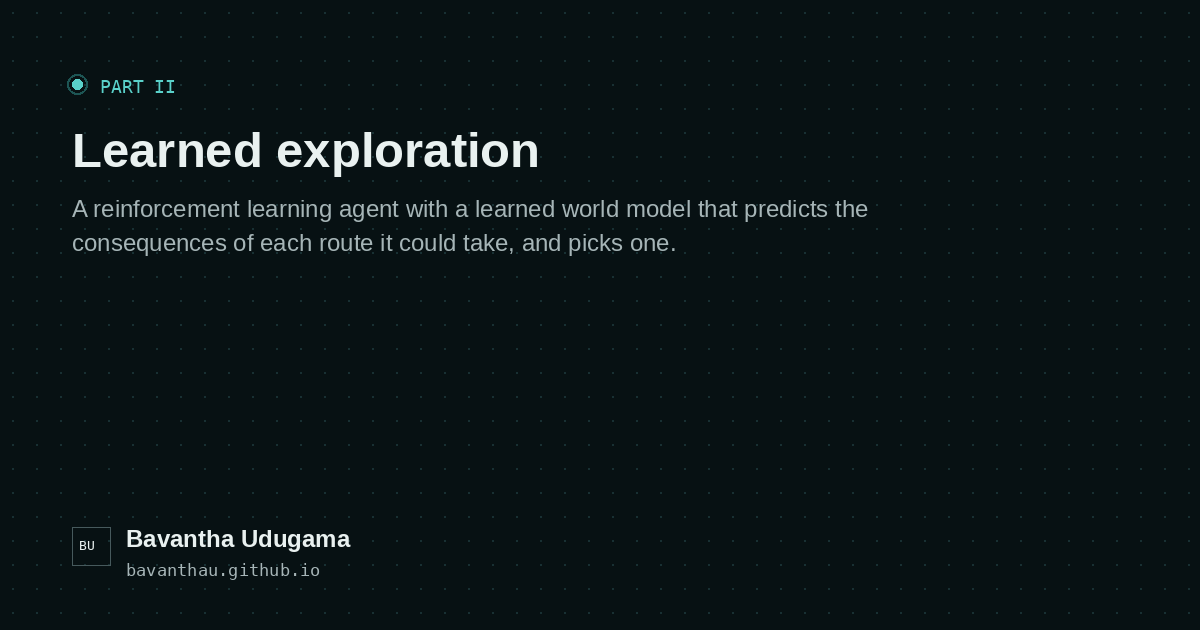
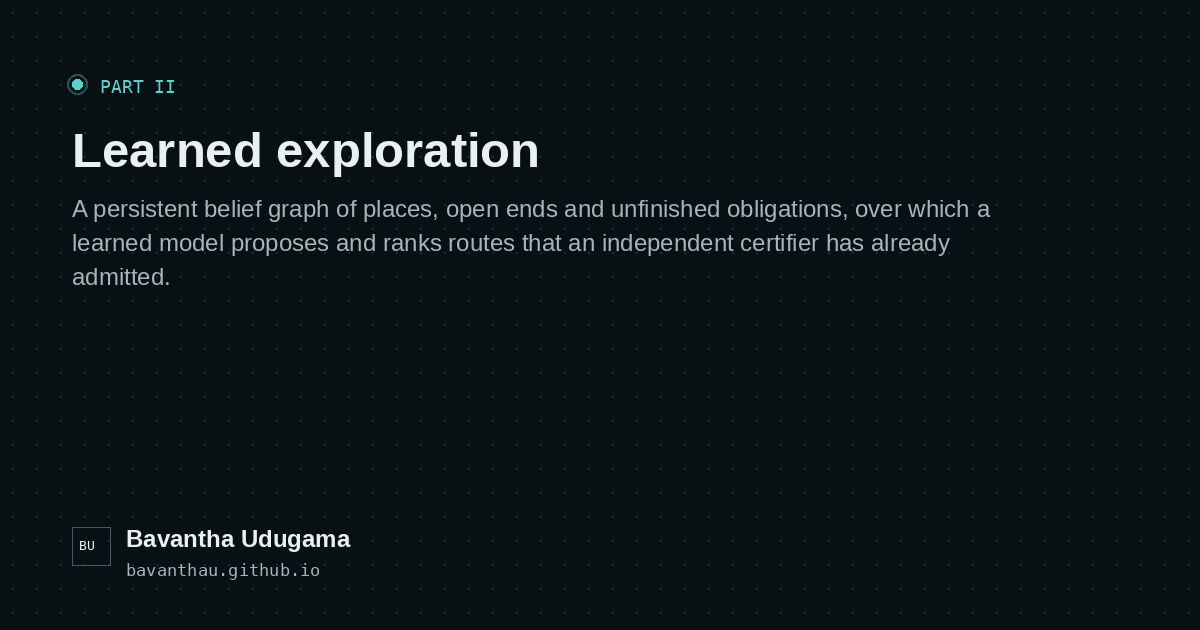
Describe ATLAS V11 on the exploration page
The exploration work is now a persistent causal belief graph rather than a
world model over map snapshots, and the page said the old thing. Places,
open ends and obligations as node types; edges keyed by a certified route
and its certificate hash; an 18-D node and 7-D edge GNN fused with
dual-scale body-aligned occupancy crops; a transformer proposing and
ranking up to eight options through proposal, choice, count and criterion
heads, cloned from a certified classical teacher; options scored by a
distributional effect model under a horizon-3 ICBO MPC against a
pre-registered reward. V9, the depth-only control layer underneath, gets a
block of its own.

The certification contract is unchanged and now stated where it belongs:
route certification and collision authority sit outside the network, which
only re-orders options an independent certifier has admitted.

The clip, the status note and the no-results-yet label stay as they were.

Changed region(s): [[0.0617, 0.3016, 0.8325, 0.4524]]

diff --git a/projects/learned-exploration/index.html b/projects/learned-exploration/index.html
@@ -5,14 +5,14 @@
 <meta name="viewport" content="width=device-width, initial-scale=1">
 <meta name="color-scheme" content="light dark">
 <title>Bavantha Udugama | Learned exploration</title>
-<meta name="description" content="A reinforcement learning agent with a learned world model that predicts the consequences of each route it could take, and picks one.">
+<meta name="description" content="A persistent belief graph of places, open ends and unfinished obligations, over which a learned model proposes and ranks routes that an independent.">
 <meta name="robots" content="index, follow, max-image-preview:large, max-snippet:-1, max-video-preview:-1">
 <link rel="canonical" href="https://bavanthau.github.io/projects/learned-exploration/">
 <meta name="google-site-verification" content="LWcJVt2Oa5A7B_dpxRGxcpkIGy-YoHjrJKUzmU_0QO4">
 <meta property="og:type" content="article">
 <meta property="og:site_name" content="Bavantha Udugama">
 <meta property="og:title" content="Bavantha Udugama | Learned exploration">
-<meta property="og:description" content="A reinforcement learning agent with a learned world model that predicts the consequences of each route it could take, and picks one.">
+<meta property="og:description" content="A persistent belief graph of places, open ends and unfinished obligations, over which a learned model proposes and ranks routes that an independent.">
 <meta property="og:url" content="https://bavanthau.github.io/projects/learned-exploration/">
 <meta property="og:image" content="https://bavanthau.github.io/media/og/proj-learned-exploration.png">
 <meta property="og:image:width" content="1200">
@@ -21,7 +21,7 @@
 <meta name="twitter:card" content="summary_large_image">
 <meta name="twitter:image" content="https://bavanthau.github.io/media/og/proj-learned-exploration.png">
 <meta name="twitter:title" content="Bavantha Udugama | Learned exploration">
-<meta name="twitter:description" content="A reinforcement learning agent with a learned world model that predicts the consequences of each route it could take, and picks one.">
+<meta name="twitter:description" content="A persistent belief graph of places, open ends and unfinished obligations, over which a learned model proposes and ranks routes that an independent.">
 <link rel="stylesheet" href="/assets/site.css?v=f70c5fdb9b">
 <link rel="icon" href="/assets/favicon.svg?v=12e1995266" type="image/svg+xml">
 <link rel="icon" href="/assets/favicon-32.png?v=529caf0bfa" sizes="32x32" type="image/png">
@@ -32,7 +32,7 @@
   "@context": "https://schema.org",
   "@type": "CreativeWork",
   "name": "Learned exploration",
-  "description": "A reinforcement learning agent with a learned world model that predicts the consequences of each route it could take, and picks one.",
+  "description": "A persistent belief graph of places, open ends and unfinished obligations, over which a learned model proposes and ranks routes that an independent certifier has already admitted.",
   "url": "https://bavanthau.github.io/projects/learned-exploration/",
   "creativeWorkStatus": "Work in progress, no results yet",
   "author": {
@@ -121,20 +121,20 @@
 
 <p class="eyebrow"><a href="/projects/">Projects</a> &middot; Part II</p>
 <h1>Learned exploration</h1>
-<p class="standfirst">A reinforcement learning agent with a learned world model that predicts the consequences of each route it could take, and picks one.</p>
-<p class="pub-venue">2025 to present &middot;
+<p class="standfirst">A persistent belief graph of places, open ends and unfinished obligations, over which a learned model proposes and ranks routes that an independent certifier has already admitted.</p>
+<p class="pub-venue">ATLAS V11 &middot; 2025 to present &middot;
   <span class="tag tag-progress">Work in progress, no results yet</span></p>
 
 <div class="note">
   <span class="note-label">Status</span>
-  <p>The formulation, the world model, the objective, and the training setup are written up in the thesis. The experiments are not run yet. The exploration agent also does not consume the Mono-Hydra++ scene graph: it maintains its own topological memory over an occupancy map built from simulated depth and pose. Connecting the two parts is the next step.</p>
+  <p>The formulation, the belief graph, the effect model, the objective and the training setup are written up in the thesis. The experiments are not run yet. The exploration agent also does not consume the Mono-Hydra++ scene graph: it maintains its own belief graph over an occupancy map built from simulated depth and pose. Connecting the two parts is the next step.</p>
 </div>
 <h2>What it does</h2>
-<p>The robot enters an unmapped indoor space with one forward-facing camera and has to cover it under a time budget without collision. Motion is treated as solved: a geometric planner proposes only routes it has verified against the occupancy map the robot has built. The open problem is choice, not motion, so the learned layer decides among certified options and may abstain, but never commands motion itself.</p>
+<p>The robot enters an unmapped indoor space with one forward-facing camera and has to cover it under a time budget without collision. Motion is treated as solved: a geometric planner proposes only routes it has verified against the occupancy map the robot has built. The open problem is choice, not motion, so the learned layer decides among certified options and may abstain, but never commands motion itself. The system is ATLAS V11, built in PyTorch and trained in Isaac Sim.</p>
 <figure class="v-figure "><div class="v-wrap"><video poster="/media/video/scope-explorer-poster.jpg" width="1100" height="892" muted loop playsinline preload="none" data-autoloop aria-label="Simulated indoor exploration run showing the robot&#x27;s occupancy map growing as it selects routes through the environment."><source src="/media/video/scope-explorer.mp4" type="video/mp4"></video><button type="button" class="v-toggle" data-toggle aria-label="Play or pause video">Pause</button><button type="button" class="v-expand" data-expand hidden aria-label="Play this clip in a larger frame"><span aria-hidden="true">&#x2921;</span>Expand</button></div><figcaption>Autonomous exploration in simulation. The robot holds an occupancy map it has built itself and commits to one certified route at a time, so the map fills in region by region rather than by wandering. 60 second excerpt.</figcaption></figure>
-<h2>How the agent decides</h2><div class="method"><div class="method-item"><h3>A world model that predicts consequences, not pixels</h3><p>For each candidate route the model predicts the seven quantities the decision uses: new area mapped, elapsed time, distance travelled, whether the robot enters a room for the first time, how the structural picture changes in entities and open frontiers, whether the route fails through abort or timeout or safety refusal, and whether the region stays worth working on afterwards. The model has no appearance term and none of its outputs is a pixel.</p></div><div class="method-item"><h3>A compressed next state, for looking further ahead</h3><p>Alongside the consequence vector the model predicts the structural picture that would follow execution, which allows predictions to be chained into a multi-step lookahead. Whether the lookahead is worth its cost is untested, and is one of the questions for the experiments.</p></div><div class="method-item"><h3>Telling randomness apart from ignorance</h3><p>Running the same route twice from the same state gives different results, and that spread belongs to the world. Not having seen anything comparable is a different problem and belongs to the model. An ensemble of models trained on different slices of experience separates the two: the mean predicted variance is the world&#x27;s, the variance of the predicted means is the model&#x27;s. When the second one is high the agent filters options and hands control back to the deterministic layer.</p></div><div class="method-item"><h3>Supervision from same-state counterfactuals</h3><p>A robot takes one action per decision, so logged experience never records what the roads not taken would have produced, and recovering them from other episodes is confounded by different histories. In simulation the entire world state is captured at a decision point, physics and map and controller internals and random number streams included, one option is run to completion, the world is restored, and the next option is run. Every alternative is then measured from an identical starting point, so the differences between outcomes are attributable to the choice alone.</p></div><div class="method-item"><h3>Rewarding the outcome rather than its proxies</h3><p>New roadmap nodes and distance covered are cheap to measure but uninformative: adding detail inside an already-mapped room scores well, while crossing a doorway is expensive and scores nothing immediately. The leading reward term is new area per second of flight, because time rather than distance is the binding resource. First entries into rooms and portals carry one-off rewards because they change what the robot can reach.</p></div></div>
-<h2>Design commitments</h2><p class="lede">Certification creates, learning selects.</p><ul class="limits"><li>Options are judged against one another, so two routes leading through the same opening are not treated as genuine alternatives.</li><li>Actions are temporally extended, because passing through a doorway is locally expensive and locally uninformative, and everything of value happens afterwards.</li><li>Branch memory gives the agent a persistent notion of unfinished work, so regions get completed and exhausted ones get abandoned on evidence rather than on a timer.</li><li>No learned component is permitted to command motion. It re-orders certified options or refuses them.</li></ul>
-<h2>What is being tested</h2><blockquote class="hypothesis"><p>If exploration is represented as topological branches and temporally extended programs, if the consequences of those programs are predicted rather than their appearances, and if supervision comes from exact same-state counterfactuals rather than logged trajectories, then the agent should finish the regions it starts, leave them when the evidence says they are exhausted rather than when time runs out, and become conservative where it is ignorant.</p></blockquote>
+<h2>How the agent decides</h2><div class="method"><div class="method-item"><h3>The state is a belief graph, not a map</h3><p>ATLAS V11 carries a persistent causal belief graph rather than a snapshot of the occupancy grid. It has three kinds of node: places the robot has been, open ends where its knowledge of the space stops, and obligations it has taken on and not yet discharged. Every edge is keyed by a certified route and by the hash of that route&#x27;s certificate, so an edge exists only where a verified way through exists, and it stops existing when that certificate does. Nodes carry an 18-dimensional feature vector, edges a 7-dimensional one.</p></div><div class="method-item"><h3>Two views of the same surroundings</h3><p>A graph neural network reads that structure, and its output is fused with ten-channel body-aligned occupancy crops taken at two scales: 8 m across at 0.125 m per cell for what is immediately around the robot, and 24 m at 0.25 m for the wider region it sits in. The crops are body-aligned, so the representation turns with the robot instead of with the world frame.</p></div><div class="method-item"><h3>Proposing and ranking the options</h3><p>A transformer over candidate tokens proposes and ranks up to eight options at each decision, through four heads: proposal, choice, count and criterion. It is trained by behaviour cloning against a classical teacher whose routes are themselves certified, so the learned policy starts from decisions that were admissible by construction.</p></div><div class="method-item"><h3>Scoring an option before committing to it</h3><p>Each option is scored by a distributional effect model, which predicts a distribution over what the option would produce rather than a single expected value, and by a horizon-3 ICBO MPC that chains those predictions three decisions deep. Both score against a reward that was registered before the experiments: new observed area, arrival in a region, and resolution of an obligation, charged against elapsed time, control effort, and revisiting ground that yields nothing.</p></div><div class="method-item"><h3>The learned layer cannot steer</h3><p>All route certification and all collision authority sit outside the network by construction. The learned model re-orders options that an independent certifier has already admitted, and it may put none of them forward. There is no path from the network to the actuators that does not pass through the certifier.</p></div><div class="method-item"><h3>The control layer underneath</h3><p>Below the option layer sits V9, a depth-only policy: a temporal transformer over the same dual-scale occupancy, with no colour and no semantic input. It is trained first by counterfactual advantage-weighted behaviour cloning, then by constrained SMDP-PPO with duration-aware GAE, which credits temporally extended options by how long they actually ran, under a Lagrangian budget on collision cost.</p></div></div>
+<h2>Design commitments</h2><p class="lede">Certification creates, learning selects.</p><ul class="limits"><li>Options are judged against one another, so two routes leading through the same opening are not treated as genuine alternatives.</li><li>Actions are temporally extended, because passing through a doorway is locally expensive and locally uninformative, and everything of value happens afterwards. The critic credits them by their duration.</li><li>Unfinished work is a node type rather than a heuristic: an obligation stays in the graph until it is discharged, so regions get completed and exhausted ones get abandoned on evidence rather than on a timer.</li><li>Every edge is keyed to a certified route and its certificate hash, so the graph cannot express a way through that has not been verified.</li><li>The reward is registered before the experiments, so the objective cannot be tuned to the result.</li><li>No learned component is permitted to command motion. It re-orders certified options or refuses them.</li></ul>
+<h2>What is being tested</h2><blockquote class="hypothesis"><p>If the state of exploration is a persistent belief graph of places, open ends and obligations rather than a snapshot of the map, if options over that graph are scored by a distributional model of their effects under a reward fixed in advance, and if every route the learned layer can rank has already been certified by something outside it, then the agent should finish the regions it starts, leave them when the evidence says they are exhausted rather than when time runs out, and stay safe where it is ignorant.</p></blockquote>
 
 
 

diff --git a/cv/index.html b/cv/index.html
@@ -328,7 +328,7 @@
         <h3>Doctoral researcher, robotics and computer vision</h3>
         <p class="role-org">Faculty ITC, University of Twente <span>Enschede, Netherlands</span></p>
         <p class="role-note">PhD project: autonomous real-time UAV mapping with spatial perception for indoor applications. Supervised by George Vosselman and Francesco Nex.</p>
-        <ul class="role-points"><li>Built Mono-Hydra++, a real-time monocular RGB and IMU pipeline that constructs hierarchical 3D scene graphs for indoor drone mapping. C++ extensions to the VIO backend add sparse depth factors for metric-aware pose graph estimation, cutting trajectory error by 61% on ScanNet against monocular GO-SLAM while holding 25 to 30 Hz.</li><li>Took the full perception and mapping stack from prototype to deployment on an NVIDIA Jetson Orin NX with TensorRT FP16, ROS integration, and runtime profiling, reaching 25 fps on device under real-time compute limits.</li><li>Developed M2H and M2H-MX, the multi-task perception frontends behind Mono-Hydra++, predicting metric depth and semantic labels jointly from a single image. M2H appeared at IEEE/RSJ IROS 2025; M2H-MX was accepted at the IEEE ICRA 2026 SRRA Workshop, improving NYUDv2 mIoU by 6.6% and depth RMSE by 9.4%.</li><li>Building an indoor UAV exploration system in NVIDIA Isaac Sim, where the drone plans over semantic scene graphs from Mono-Hydra++, with transfer to a custom-built drone for real-world validation.</li></ul>
+        <ul class="role-points"><li>Built Mono-Hydra++, a real-time monocular RGB and IMU pipeline that constructs hierarchical 3D scene graphs for indoor drone mapping. C++ extensions to the VIO backend add sparse depth factors for metric-aware pose graph estimation, cutting trajectory error by 61% on ScanNet against monocular GO-SLAM while holding 25 to 30 Hz.</li><li>Took the full perception and mapping stack from prototype to deployment on an NVIDIA Jetson Orin NX with TensorRT FP16, ROS integration, and runtime profiling, reaching 25 fps on device under real-time compute limits.</li><li>Developed M2H and M2H-MX, the multi-task perception frontends behind Mono-Hydra++, predicting metric depth and semantic labels jointly from a single image. M2H appeared at IEEE/RSJ IROS 2025; M2H-MX was accepted at the IEEE ICRA 2026 SRRA Workshop, improving NYUDv2 mIoU by 6.6% and depth RMSE by 9.4%.</li><li>Building ATLAS V11, an indoor UAV exploration agent in NVIDIA Isaac Sim: a persistent belief graph of places, open ends and obligations, read by a GNN and a transformer that proposes and ranks up to eight routes per decision, trained by behaviour cloning against a certified classical teacher, with route certification and collision authority kept outside the network. Transfer to a custom-built drone for real-world validation.</li></ul>
         
         <div class="chips"><span class="chip">C++</span><span class="chip">PyTorch</span><span class="chip">ROS</span><span class="chip">TensorRT</span><span class="chip">Jetson</span></div>
         <div class="role-loop"><p class="media-label">The loop this PhD closes, in four clips.</p><ol class="loopstrip"><li class="loopstrip-item"><p class="loopstrip-index">01</p><h4><a href="/videos/monocular-3d-scene-graph-scannet/">Perception and scene graph</a></h4><figure class="v-figure loopstrip-clip"><div class="v-wrap"><video poster="/media/video/icra26-poster.jpg" width="1600" height="686" muted loop playsinline preload="none" data-autoloop aria-label="Screen recording of ScanNet scene 0000. A hierarchical 3D scene graph hangs from a building node down through room and place nodes to labelled object boxes over the reconstructed mesh, while the RGB frame, the predicted semantics, and the predicted depth run down the right."><source src="/media/video/icra26.mp4" type="video/mp4"></video><button type="button" class="v-toggle" data-toggle aria-label="Play or pause video">Pause</button><button type="button" class="v-expand" data-expand hidden aria-label="Play this clip in a larger frame"><span aria-hidden="true">&#x2921;</span>Expand</button></div><figcaption>The whole pipeline on ScanNet scene 0000. M2H-MX predicts depth and semantics from the image stream, Mono-Hydra++ consumes those predictions inside the visual-inertial odometry and the mapping backend, and the hierarchical scene graph is built in real time. Playback is 16x.</figcaption></figure><p class="loopstrip-note">M2H-MX predicts metric depth and semantics in a single pass, and Mono-Hydra++ turns them into a hierarchical 3D scene graph. The same stack, run across different environments.</p></li><li class="loopstrip-item"><p class="loopstrip-index">02</p><h4>Robustness on device</h4><figure class="v-figure loopstrip-clip"><div class="v-wrap"><video poster="/media/video/stairs-zupt-poster.jpg" width="1200" height="706" muted loop playsinline preload="none" aria-label="Screen recording on the drone&#x27;s Jetson. An rviz window shows predicted depth, tracked features, and predicted semantics down the left, and the estimated trajectory climbing a stairwell in the centre, labelled MOVING while the drone is in motion and ZUPT STATIONARY while it is still."><source src="/media/video/stairs-zupt.webm" type="video/webm"><source src="/media/video/stairs-zupt.mp4" type="video/mp4"></video><button type="button" class="v-toggle" data-toggle aria-label="Play or pause video">Pause</button><button type="button" class="v-expand" data-expand hidden aria-label="Play this clip in a larger frame"><span aria-hidden="true">&#x2921;</span>Expand</button></div><figcaption>Depth-backed visual-inertial odometry on the drone&#x27;s Jetson, walked down and back up the stairs at home. The label switches between MOVING and ZUPT STATIONARY: when the platform is still, zero-velocity updates hold the estimate in place instead of letting it drift. Predicted depth, tracked features, and predicted semantics are the panels on the left.</figcaption></figure><p class="loopstrip-note">The VIO running on a Jetson Orin with a ZED X One, holding pose down the stairs and back up. This is the robustness test for the algorithm.</p></li><li class="loopstrip-item"><p class="loopstrip-index">03</p><h4>The drone</h4><figure class="v-figure loopstrip-clip is-portrait"><div class="v-wrap"><video poster="/media/video/drone-flight-poster.jpg" width="1080" height="1920" muted loop playsinline preload="none" data-autoloop aria-label="The custom quadrotor lifting off from the floor of an indoor walkway and flying down it towards the camera, past timber and glass balconies."><source src="/media/video/drone-flight.mp4" type="video/mp4"></video><button type="button" class="v-toggle" data-toggle aria-label="Play or pause video">Pause</button><button type="button" class="v-expand" data-expand hidden aria-label="Play this clip in a larger frame"><span aria-hidden="true">&#x2921;</span>Expand</button></div><figcaption>Take-off and a pass down the corridor. Everything the mapping runs on is carried onboard.</figcaption></figure><p class="loopstrip-note">The quadrotor built to deploy this stack, carrying and computing all of it onboard.</p></li><li class="loopstrip-item"><p class="loopstrip-index">04</p><h4>Exploration</h4><figure class="v-figure loopstrip-clip"><div class="v-wrap"><video poster="/media/video/scope-explorer-poster.jpg" width="1100" height="892" muted loop playsinline preload="none" data-autoloop aria-label="Simulated indoor exploration run showing the robot&#x27;s occupancy map growing as it selects routes through the environment."><source src="/media/video/scope-explorer.mp4" type="video/mp4"></video><button type="button" class="v-toggle" data-toggle aria-label="Play or pause video">Pause</button><button type="button" class="v-expand" data-expand hidden aria-label="Play this clip in a larger frame"><span aria-hidden="true">&#x2921;</span>Expand</button></div><figcaption>Autonomous exploration in simulation. The robot holds an occupancy map it has built itself and commits to one certified route at a time, so the map fills in region by region rather than by wandering. 60 second excerpt.</figcaption></figure><p class="loopstrip-note">Still at simulation level, in NVIDIA Isaac Sim and the lab: the map it built decides where to look next. Deployment on the drone comes next.</p></li></ol></div>

diff --git a/research/index.html b/research/index.html
@@ -326,20 +326,20 @@ predictions. 0.08 m on the ITC second floor, 0.033 m calibrated trajectory error
 <figure class=""><picture><source type="image/avif" srcset="/media/images/scene-graph-itc-480.avif 480w, /media/images/scene-graph-itc-960.avif 960w, /media/images/scene-graph-itc-1600.avif 1600w" sizes="(min-width: 56em) 62rem, 100vw"><source type="image/webp" srcset="/media/images/scene-graph-itc-480.webp 480w, /media/images/scene-graph-itc-960.webp 960w, /media/images/scene-graph-itc-1600.webp 1600w" sizes="(min-width: 56em) 62rem, 100vw"><img src="/media/images/scene-graph-itc-1600.jpg" alt="A 3D scene graph over the ITC building second floor. A single building node at the top connects down to a room node, then to a dense band of place nodes following the corridor loop, then to object nodes scattered along the walls, and finally to the reconstructed mesh of the floor." width="3826" height="2240" loading="lazy" decoding="async"></picture><figcaption>The layered scene graph over the ITC second floor. It runs from one building node down through a room node, a band of place nodes following the corridor loop, and object nodes along the walls. Counts by category are in the legend.</figcaption></figure>
 
 <h2>Part II. Exploring the unseen <span class="tag tag-progress">In progress</span></h2>
-<p>A reinforcement learning agent with a learned world model, choosing where to look next in a building it has never seen.</p>
+<p>A learned agent over a persistent belief graph of places, open ends and unfinished obligations, choosing where to look next in a building it has never seen.</p>
 
 <div class="note">
   <span class="note-label">Status</span>
-  <p>The formulation, the world model, the objective, and the training setup are written up in the thesis. The experiments are not run yet. The exploration agent also does not consume the Mono-Hydra++ scene graph: it maintains its own topological memory over an occupancy map built from simulated depth and pose. Connecting the two parts is the next step.</p>
+  <p>The formulation, the belief graph, the effect model, the objective and the training setup are written up in the thesis. The experiments are not run yet. The exploration agent also does not consume the Mono-Hydra++ scene graph: it maintains its own belief graph over an occupancy map built from simulated depth and pose. Connecting the two parts is the next step.</p>
 </div>
 
-<p>The robot enters an unmapped indoor space with one forward-facing camera and has to cover it under a time budget without collision. Motion is treated as solved: a geometric planner proposes only routes it has verified against the occupancy map the robot has built. The open problem is choice, not motion, so the learned layer decides among certified options and may abstain, but never commands motion itself.</p>
+<p>The robot enters an unmapped indoor space with one forward-facing camera and has to cover it under a time budget without collision. Motion is treated as solved: a geometric planner proposes only routes it has verified against the occupancy map the robot has built. The open problem is choice, not motion, so the learned layer decides among certified options and may abstain, but never commands motion itself. The system is ATLAS V11, built in PyTorch and trained in Isaac Sim.</p>
 <p class="lede">Predict consequences, not appearances.</p>
 <p>The learned component sits between two deterministic layers and has no path to the actuators
 except by selecting an option the planner above it has already certified as safe. It may re-order
-those options and it may abstain. It may not invent one. Three requirements follow from the shape
-of the task rather than from the hardware:</p>
-<ul class="limits"><li>Options are judged against one another, so two routes leading through the same opening are not treated as genuine alternatives.</li><li>Actions are temporally extended, because passing through a doorway is locally expensive and locally uninformative, and everything of value happens afterwards.</li><li>Branch memory gives the agent a persistent notion of unfinished work, so regions get completed and exhausted ones get abandoned on evidence rather than on a timer.</li><li>No learned component is permitted to command motion. It re-orders certified options or refuses them.</li></ul>
+those options and it may abstain. It may not invent one. The requirements that follow come from
+the shape of the task rather than from the hardware:</p>
+<ul class="limits"><li>Options are judged against one another, so two routes leading through the same opening are not treated as genuine alternatives.</li><li>Actions are temporally extended, because passing through a doorway is locally expensive and locally uninformative, and everything of value happens afterwards. The critic credits them by their duration.</li><li>Unfinished work is a node type rather than a heuristic: an obligation stays in the graph until it is discharged, so regions get completed and exhausted ones get abandoned on evidence rather than on a timer.</li><li>Every edge is keyed to a certified route and its certificate hash, so the graph cannot express a way through that has not been verified.</li><li>The reward is registered before the experiments, so the objective cannot be tuned to the result.</li><li>No learned component is permitted to command motion. It re-orders certified options or refuses them.</li></ul>
 <p><a href="/projects/learned-exploration/">More on the exploration work</a>.</p>
 
 <h2>Thesis</h2>

diff --git a/index.html b/index.html
@@ -505,7 +505,7 @@
     <div class="chapter-heading">
       <div><p class="eyebrow">Part II &middot; work in progress</p>
       <h2>Exploring the unseen <span class="tag tag-progress">In progress</span></h2></div>
-      <p class="section-intro">The agent predicts what each candidate route would produce, in the quantities the decision uses: new area per second, whether it opens a room, how the structure changes, whether it fails. Not pixels. An ensemble separates genuine randomness from the model&#x27;s own ignorance, and the agent abstains when the second is high.</p>
+      <p class="section-intro">The agent&#x27;s state is a belief graph, not a snapshot of the map: places it has been, open ends where its knowledge stops, and obligations it has not yet discharged, with every edge keyed to a route that has been certified. A transformer proposes up to eight options over that graph and scores each one by a distributional model of what it would produce. Certification stays outside the network, so the learned layer re-orders admitted options and never commands motion.</p>
     </div>
     <div class="media-feature"><figure class="v-figure "><div class="v-wrap"><video poster="/media/video/scope-explorer-poster.jpg" width="1100" height="892" muted loop playsinline preload="none" data-autoloop aria-label="Simulated indoor exploration run showing the robot&#x27;s occupancy map growing as it selects routes through the environment."><source src="/media/video/scope-explorer.mp4" type="video/mp4"></video><button type="button" class="v-toggle" data-toggle aria-label="Play or pause video">Pause</button><button type="button" class="v-expand" data-expand hidden aria-label="Play this clip in a larger frame"><span aria-hidden="true">&#x2921;</span>Expand</button></div><figcaption>Autonomous exploration in simulation. The robot holds an occupancy map it has built itself and commits to one certified route at a time, so the map fills in region by region rather than by wandering. 60 second excerpt.</figcaption></figure></div>
     <p class="section-intro"><a href="/projects/learned-exploration/">How the exploration system

diff --git a/projects/index.html b/projects/index.html
@@ -160,7 +160,7 @@ measures it.</p>
     <li class="card">
       <p class="eyebrow">Part II &middot; in progress</p>
       <h3><a href="/projects/learned-exploration/">Learned exploration</a></h3>
-      <p>A reinforcement learning agent with a learned world model that predicts the consequences of each route it could take, and picks one.</p>
+      <p>A persistent belief graph of places, open ends and unfinished obligations, over which a learned model proposes and ranks routes that an independent certifier has already admitted.</p>
       <p class="card-meta"></p>
     </li></ul>
 

diff --git a/tools/build.py b/tools/build.py
@@ -1340,8 +1340,8 @@ predictions. 0.08 m on the ITC second floor, 0.033 m calibrated trajectory error
 <p class="lede">{e(a2['commitment'])}</p>
 <p>The learned component sits between two deterministic layers and has no path to the actuators
 except by selecting an option the planner above it has already certified as safe. It may re-order
-those options and it may abstain. It may not invent one. Three requirements follow from the shape
-of the task rather than from the hardware:</p>
+those options and it may abstain. It may not invent one. The requirements that follow come from
+the shape of the task rather than from the hardware:</p>
 <ul class="limits">{points}</ul>
 <p><a href="/projects/learned-exploration/">More on the exploration work</a>.</p>
 
@@ -1761,7 +1761,7 @@ def build_project_pages():
 <p class="eyebrow"><a href="/projects/">Projects</a> &middot; {e(pr["partLabel"])}</p>
 <h1>{e(pr["name"])}</h1>
 <p class="standfirst">{e(pr["oneLine"])}</p>
-<p class="pub-venue">{e(pr["years"])} &middot;
+<p class="pub-venue">{e(pr["systemName"]) + " &middot; " if pr.get("systemName") else ""}{e(pr["years"])} &middot;
   {'<span class="tag tag-progress">' + e(pr.get("statusLabel", pr["status"])) + '</span>'
    if pr["status"] == "in progress" else e(pr.get("statusLabel", pr["status"]))}</p>
 {honesty}
